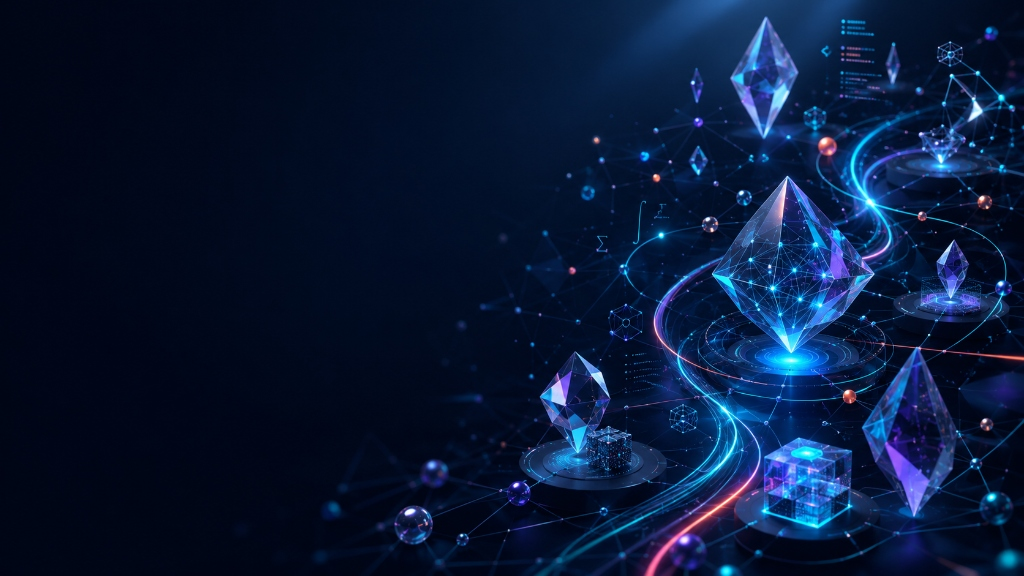
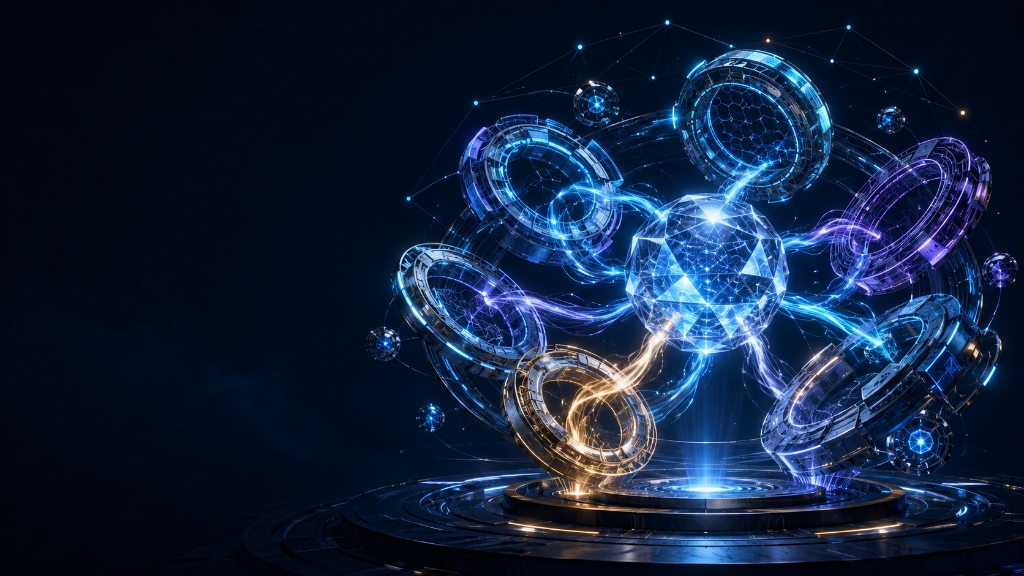
feat: update hero background image and adjust contributor role for Mateo

diff --git a/universidades/index.html b/universidades/index.html
@@ -8,7 +8,7 @@
   <link rel="preconnect" href="https://fonts.googleapis.com">
   <link rel="preconnect" href="https://fonts.gstatic.com" crossorigin>
   <link href="https://fonts.googleapis.com/css2?family=DM+Sans:ital,opsz,wght@0,9..40,100..1000;1,9..40,100..1000&family=Outfit:wght@100..900&display=swap" rel="stylesheet">
-  <link rel="stylesheet" href="styles.css">
+  <link rel="stylesheet" href="styles.css?v=3.0">
 </head>
 <body class="theme-night">
 

diff --git a/index.html b/index.html
@@ -8,7 +8,7 @@
   <link rel="preconnect" href="https://fonts.googleapis.com">
   <link rel="preconnect" href="https://fonts.gstatic.com" crossorigin>
   <link href="https://fonts.googleapis.com/css2?family=DM+Sans:ital,opsz,wght@0,9..40,100..1000;1,9..40,100..1000&family=Outfit:wght@100..900&display=swap" rel="stylesheet">
-  <link rel="stylesheet" href="styles-hub.css?v=2.0">
+  <link rel="stylesheet" href="styles-hub.css?v=3.0">
 </head>
 <body>
 

diff --git a/README.md b/README.md
@@ -91,6 +91,6 @@ Escala tonal del azul institucional. Es la escala más versátil del sistema: cu
 
 ## 7. Contribuidores & Desarrolladores
 
-* **Mateo** ([@MATEO197802](https://github.com/MATEO197802)) — Desarrollador Principal / Creador de la sección **Conecta Universidades** (Integración IEEE 2026 - Gala Modo Noche) y Maquetador del Portal Hub Principal.
-* **Ariel Pincay** ([@arielpincayy](https://github.com/arielpincayy)) — Desarrollador de la sección **Conecta Empresas** (Feria B2B Modo Día).
+* **Mateo** ([@MATEO197802](https://github.com/MATEO197802)) — Desarrollador de la sección Conecta Universidades (Integración IEEE 2026 - Gala Modo Noche) y Maquetador del Portal Hub Principal.
+* **Ariel Pincay** ([@arielpincayy](https://github.com/arielpincayy)) — Desarrollador de la sección Conecta Empresas (Feria B2B Modo Día).
 * **Equipo AEMCiCD & IEEE Yachay Tech** — Co-Organización Institucional.
